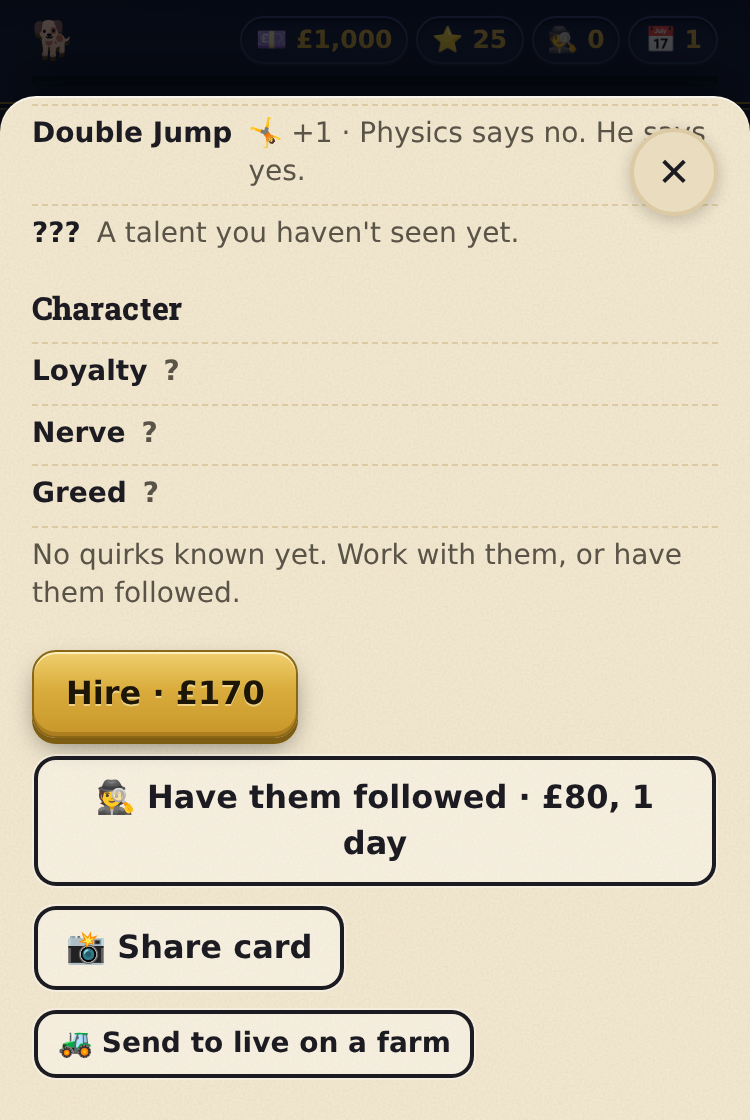
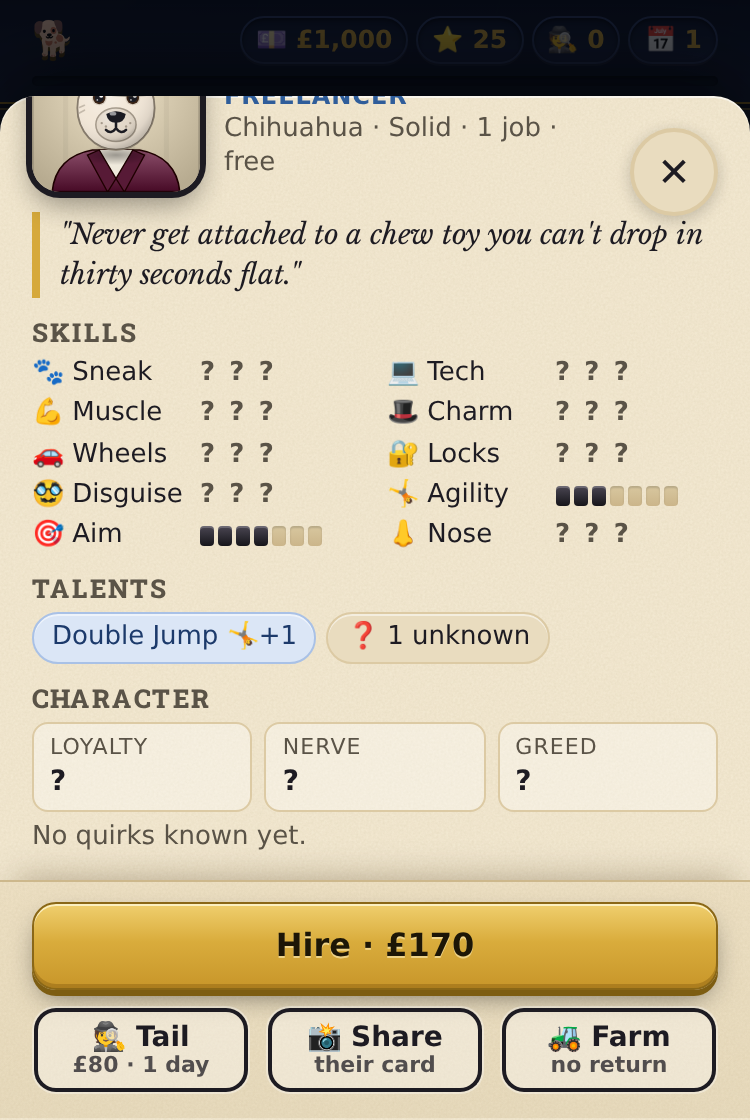
Compact crew profile that fits a phone screen, with pinned actions
- Profile sheet: smaller portrait, one-line meta, talents and quirks as chips,
  loyalty/nerve/greed as a three-up row
- Hire (or drop / brief) plus Tail, Share and Farm pinned to the sheet's
  bottom so they are always on screen; farm confirmation is inline
- Toasts appear at the top while a sheet is open so they never cover buttons
- Smoke: profile fits without scrolling at 390x844 and 375x667, before and
  after tailing, with no clipped button labels and no toast overlap

Claude-Session: https://claude.ai/code/session_0119DQBJUjuLkFW8ZZge45qz

diff --git a/src/ui.js b/src/ui.js
@@ -513,6 +513,7 @@ const SCREEN_RENDER = {
 function renderModal(G) {
   const root = document.getElementById('modal-root');
   const m = G.ui.modal;
+  document.body.classList.toggle('modal-open', !!(m && G.state));
   if (!m || !G.state) { root.innerHTML = ''; return; }
   let inner = '';
   if (m.type === 'dog') inner = dogModal(G, G.state.dogs[m.id]);
@@ -521,6 +522,8 @@ function renderModal(G) {
   root.innerHTML = `<div class="modal-back" data-act="close-modal"><div class="modal" data-stop role="dialog" aria-modal="true"><div class="modal-bar"><button class="close" data-act="close-modal" aria-label="Close">✕</button></div>${inner}</div></div>`;
 }
 
+// Compact profile: sized to fit a phone screen, with actions pinned to the
+// bottom of the sheet so they're always reachable.
 function dogModal(G, d) {
   const s = G.state;
   if (!d) return '';
@@ -528,30 +531,44 @@ function dogModal(G, d) {
   const inCrew = s.crew.includes(d.id);
   const planning = s.phase === 'plan';
   const skills = SKILLS.map((sk) => `<div class="skill"><span class="lbl">${SKILL_INFO[sk].icon} ${SKILL_INFO[sk].label}</span>${pips(skillOf(d, sk), d.known.skills[sk])}</div>`).join('');
-  const talents = d.talents.map((t) => d.known.talents.includes(t) ? `<div class="trait"><b>${esc(TALENTS[t].name)}</b><span class="muted">${SKILL_INFO[TALENTS[t].skill].icon} +${TALENTS[t].bonus} · ${esc(TALENTS[t].blurb)}</span></div>` : '<div class="trait"><b>???</b><span class="muted">A talent you haven\'t seen yet.</span></div>').join('');
-  const quirks = d.known.quirks.map((q) => `<div class="trait"><b>${esc(QUIRKS[q].name)}</b><span class="muted">${esc(QUIRKS[q].blurb)}</span></div>`).join('') || '<div class="trait"><span class="muted">No quirks known yet. Work with them, or have them followed.</span></div>';
-  const trait = (k, label) => `<div class="trait"><b>${label}</b><span>${d.known[k] ? band(d[k]) : '<span class="q">?</span>'}</span></div>`;
-  const undercover = d.known.undercover && d.undercover ? '<p class="chip bad">👮 UNDERCOVER COPPER</p>' : d.cleared ? '<p class="chip good">Checked out: seems legit</p>' : '';
-  const actions = [];
-  if (planning && d.status === 'free' && !inCrew) actions.push(`<button class="btn" data-act="hire" data-id="${d.id}">Hire · ${money(d.fee)}</button>`);
-  if (planning && inCrew) actions.push(`<button class="btn ghost" data-act="dismiss" data-id="${d.id}">Drop from crew</button>`);
-  if (planning && ['free', 'crew'].includes(d.status) && !(d.known.loyalty && (d.cleared || d.known.undercover))) actions.push(`<button class="btn ghost" data-act="surveil" data-id="${d.id}" ${s.job.daysLeft ? '' : 'disabled'}>🕵 Have them followed · £80, 1 day</button>`);
-  if (d.status === 'pound') actions.push(`<button class="btn" data-act="lawyer" data-id="${d.id}">⚖ Hire a brief · £150</button>`);
-  actions.push(`<button class="btn ghost" data-act="share" data-id="${d.id}">📸 Share card</button>`);
-  if (d.met && ['free', 'crew', 'pound'].includes(d.status) && s.phase !== 'heist') {
-    const confirm = G.ui.confirmFarm === d.id;
-    actions.push(`<button class="btn ${confirm ? 'red' : 'ghost'} small" data-act="farm" data-id="${d.id}">${confirm ? 'Really? Tap again. There\'s no coming back.' : '🚜 Send to live on a farm'}</button>`);
+  const knownT = d.talents.filter((t) => d.known.talents.includes(t));
+  const unknownT = d.talents.length - knownT.length;
+  const talents = knownT.map((t) => `<span class="chip info" title="${esc(TALENTS[t].blurb)}">${esc(TALENTS[t].name)} ${SKILL_INFO[TALENTS[t].skill].icon}+${TALENTS[t].bonus}</span>`).join('')
+    + (unknownT ? `<span class="chip">❓ ${unknownT} unknown</span>` : '');
+  const quirks = d.known.quirks.map((q) => `<span class="chip ${QUIRKS[q].good === true ? 'good' : QUIRKS[q].good === false ? 'bad' : ''}" title="${esc(QUIRKS[q].blurb)}">${esc(QUIRKS[q].name)}</span>`).join('')
+    || '<span class="muted">No quirks known yet.</span>';
+  const trait = (k, label) => `<div class="dm-trait"><span>${label}</span><b>${d.known[k] ? band(d[k]) : '?'}</b></div>`;
+  const undercover = d.known.undercover && d.undercover ? '<span class="chip bad">👮 UNDERCOVER COPPER</span>' : d.cleared ? '<span class="chip good">✓ Checked out</span>' : '';
+  const where = d.status === 'pound' ? `in the pound (${d.sentence})` : d.status === 'crew' ? 'on your crew' : d.status;
+
+  // Actions: one primary, then compact secondaries.
+  const primary = [];
+  const minor = [];
+  if (planning && d.status === 'free' && !inCrew) primary.push(`<button class="btn" data-act="hire" data-id="${d.id}">Hire · ${money(d.fee)}</button>`);
+  if (planning && inCrew) primary.push(`<button class="btn ghost" data-act="dismiss" data-id="${d.id}">Drop from crew</button>`);
+  if (d.status === 'pound') primary.push(`<button class="btn" data-act="lawyer" data-id="${d.id}">⚖ Hire a brief · £150</button>`);
+  if (planning && ['free', 'crew'].includes(d.status) && !(d.known.loyalty && (d.cleared || d.known.undercover))) minor.push(`<button class="btn ghost small" data-act="surveil" data-id="${d.id}" ${s.job.daysLeft ? '' : 'disabled'} aria-label="Have them followed, £80, 1 day">🕵 Tail<small>£80 · 1 day</small></button>`);
+  minor.push(`<button class="btn ghost small" data-act="share" data-id="${d.id}" aria-label="Share card">📸 Share<small>their card</small></button>`);
+  const canFarm = d.met && ['free', 'crew', 'pound'].includes(d.status) && s.phase !== 'heist';
+  if (canFarm) minor.push(`<button class="btn ghost small" data-act="farm" data-id="${d.id}" aria-label="Send to live on a farm">🚜 Farm<small>no return</small></button>`);
+  let actions;
+  if (canFarm && G.ui.confirmFarm === d.id) {
+    actions = `<div class="dm-confirm">Send ${esc(shortName(d))} to live on a farm? There's no coming back, and the others will notice.</div>
+      <div class="dm-row"><button class="btn red" data-act="farm" data-id="${d.id}">🚜 Yes, the farm</button><button class="btn ghost" data-act="dog" data-id="${d.id}">Cancel</button></div>`;
+  } else {
+    actions = `${primary.length ? `<div class="dm-row">${primary.join('')}</div>` : ''}<div class="dm-row minor">${minor.join('')}</div>`;
   }
-  return `<div class="row" style="align-items:flex-start"><div class="portrait-big">${portraitSVG(d, { size: 120 })}</div>
-    <div class="grow"><h2 style="margin-top:4px">${esc(displayName(d))}</h2><div class="faction">${esc(FACTIONS[d.faction].label)}</div>
-    <div class="muted">${esc(b.label)} · ${esc(relationLabel(d))}</div>
-    <div class="muted">${d.jobs} job${d.jobs === 1 ? '' : 's'} with you · ${d.status === 'pound' ? `in the pound (${d.sentence})` : d.status}</div></div></div>
-    <div class="quote">"${esc(d.catchphrase)}"</div>
-    ${undercover}
-    <h3>Skills</h3><div class="skill-grid">${skills}</div>
-    <h3>Talents</h3>${talents}
-    <h3 class="mt">Character</h3>${trait('loyalty', 'Loyalty')}${trait('nerve', 'Nerve')}${trait('greed', 'Greed')}${quirks}
-    <div class="stack mt">${actions.join('')}</div>`;
+
+  return `<div class="dm-head"><div class="portrait-big">${portraitSVG(d, { size: 84 })}</div>
+    <div class="grow"><h2 class="dm-name">${esc(displayName(d))}</h2><div class="faction">${esc(FACTIONS[d.faction].label)}</div>
+    <div class="dm-sub">${esc(b.label)} · ${esc(relationLabel(d))} · ${d.jobs} job${d.jobs === 1 ? '' : 's'} · ${esc(where)}</div></div></div>
+    <div class="quote dm-quote">"${esc(d.catchphrase)}"</div>
+    ${undercover ? `<div class="dm-chips">${undercover}</div>` : ''}
+    <h3 class="dm-h">Skills</h3><div class="skill-grid dm-skills">${skills}</div>
+    <h3 class="dm-h">Talents</h3><div class="dm-chips">${talents}</div>
+    <h3 class="dm-h">Character</h3><div class="dm-traits">${trait('loyalty', 'Loyalty')}${trait('nerve', 'Nerve')}${trait('greed', 'Greed')}</div>
+    <div class="dm-chips">${quirks}</div>
+    <div class="dm-actions">${actions}</div>`;
 }
 
 function cardModal(G, d) {

diff --git a/styles.css b/styles.css
@@ -399,3 +399,35 @@ p { margin: 0 0 8px; }
 .siren-a { animation: siren .5s steps(2) infinite; }
 .siren-b { animation: siren .5s steps(2) infinite reverse; }
 @keyframes siren { 50% { opacity: .05; } }
+
+/* ---------- compact dog profile */
+.dm-head { display: flex; gap: 12px; align-items: center; }
+.modal .dm-head .portrait-big { width: 84px; height: 84px; border-radius: 14px; }
+.dm-name { font-size: 18px; margin: 0 0 2px; }
+.dm-sub { font-size: 13px; color: var(--ink-soft); line-height: 1.3; }
+.dm-quote { font-size: 14px; margin: 10px 0 6px; padding: 2px 0 2px 10px; }
+.dm-h { font-size: 13px; text-transform: uppercase; letter-spacing: .08em; color: var(--ink-soft); margin: 10px 0 4px; }
+.dm-skills { margin: 0; gap: 2px 12px; }
+.dm-skills .skill { font-size: 13px; }
+.dm-skills .skill .lbl { width: 78px; }
+.dm-skills .pips i { width: 7px; height: 10px; }
+.dm-chips { display: flex; flex-wrap: wrap; gap: 5px; margin-top: 4px; }
+.dm-chips .muted { font-size: 13px; }
+.dm-traits { display: grid; grid-template-columns: repeat(3, 1fr); gap: 6px; }
+.dm-trait { background: rgba(255, 255, 255, .35); border: 1px solid var(--paper-3); border-radius: 8px; padding: 4px 8px; display: flex; flex-direction: column; font-size: 11px; color: var(--ink-soft); text-transform: uppercase; letter-spacing: .05em; }
+.dm-trait b { font-size: 14px; color: var(--ink); text-transform: none; letter-spacing: 0; }
+.dm-actions {
+  position: sticky; bottom: calc(-20px - env(safe-area-inset-bottom, 0px)); z-index: 2;
+  margin: 12px -16px calc(-20px - env(safe-area-inset-bottom, 0px));
+  padding: 10px 16px calc(12px + env(safe-area-inset-bottom, 0px));
+  background: var(--grain), linear-gradient(180deg, #efe2c6, #e9dcbf);
+  border-top: 1px solid #cdb88c; box-shadow: 0 -8px 16px -8px rgba(60, 40, 10, .35);
+  display: flex; flex-direction: column; gap: 8px;
+}
+.dm-row { display: flex; gap: 8px; }
+.dm-row > .btn { flex: 1; min-width: 0; }
+.dm-row.minor .btn { min-height: 44px; padding: 4px 6px; font-size: 14px; flex-direction: column; gap: 0; line-height: 1.15; white-space: nowrap; }
+.dm-row.minor .btn small { font-size: 11px; font-weight: 600; opacity: .75; }
+.dm-confirm { font-size: 14px; color: var(--ink); }
+/* With a sheet open, toasts drop in from the top so they never cover its buttons. */
+.modal-open #toast { bottom: auto; top: calc(12px + env(safe-area-inset-top, 0px)); }
